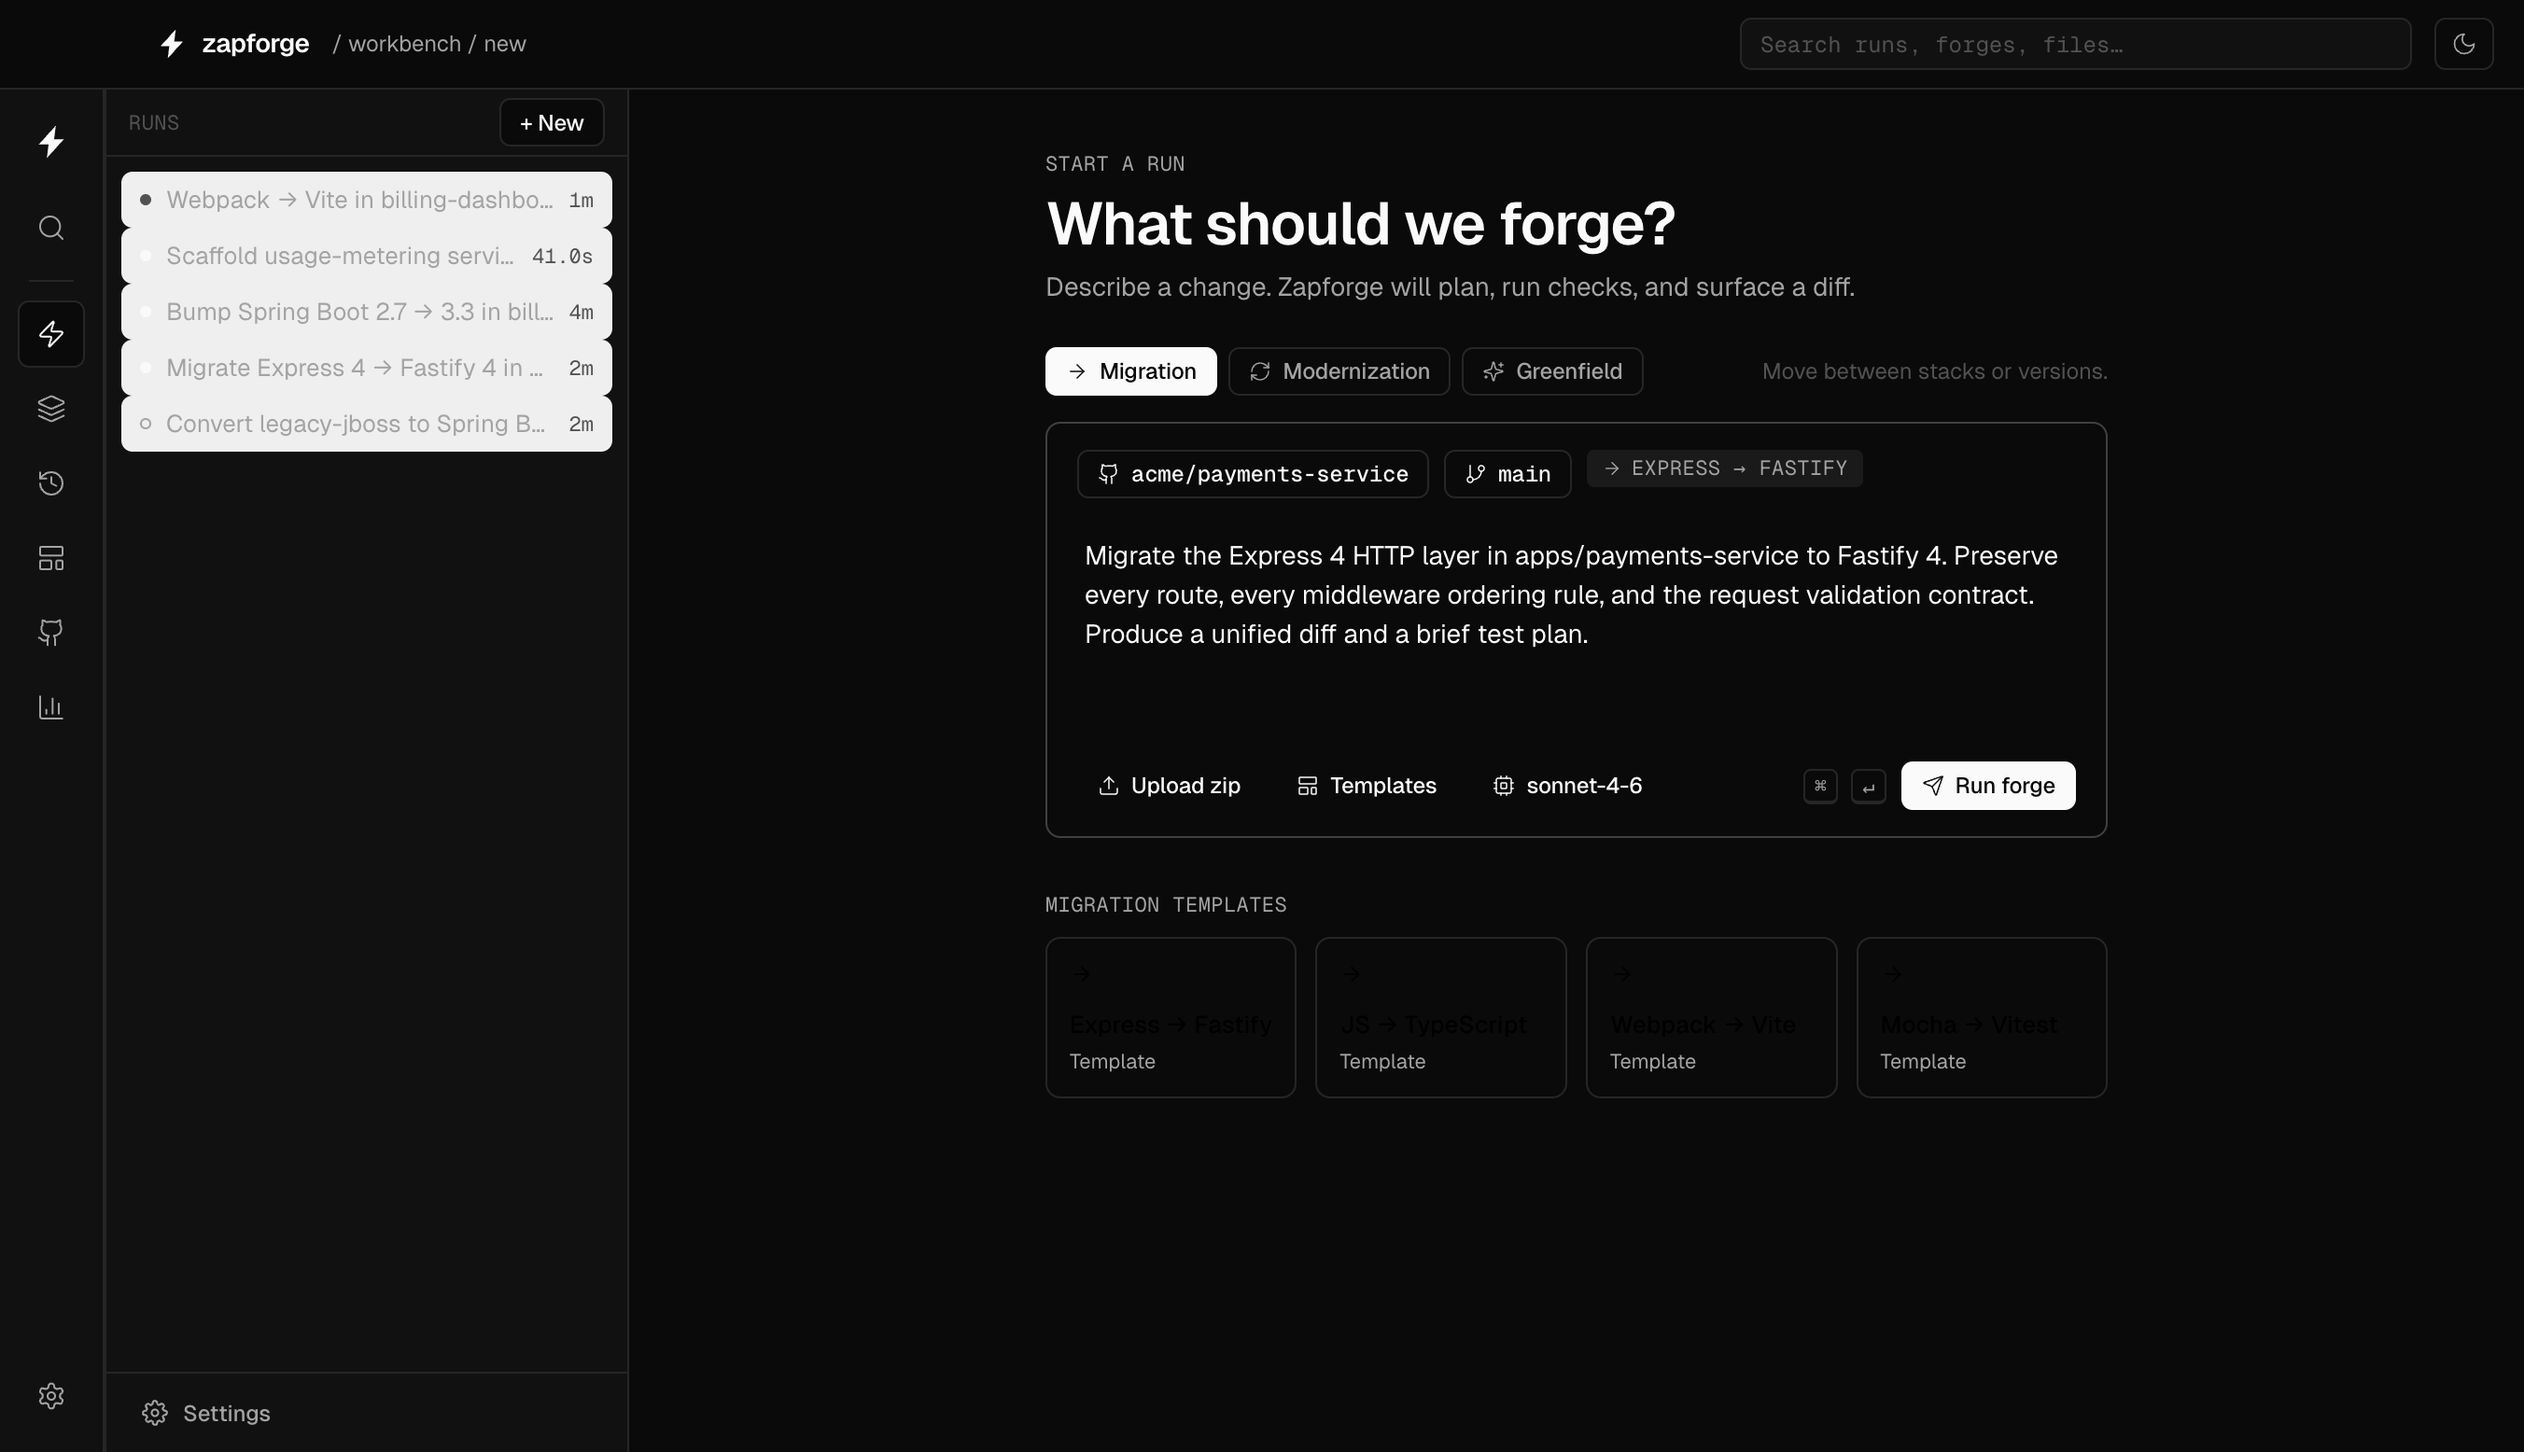
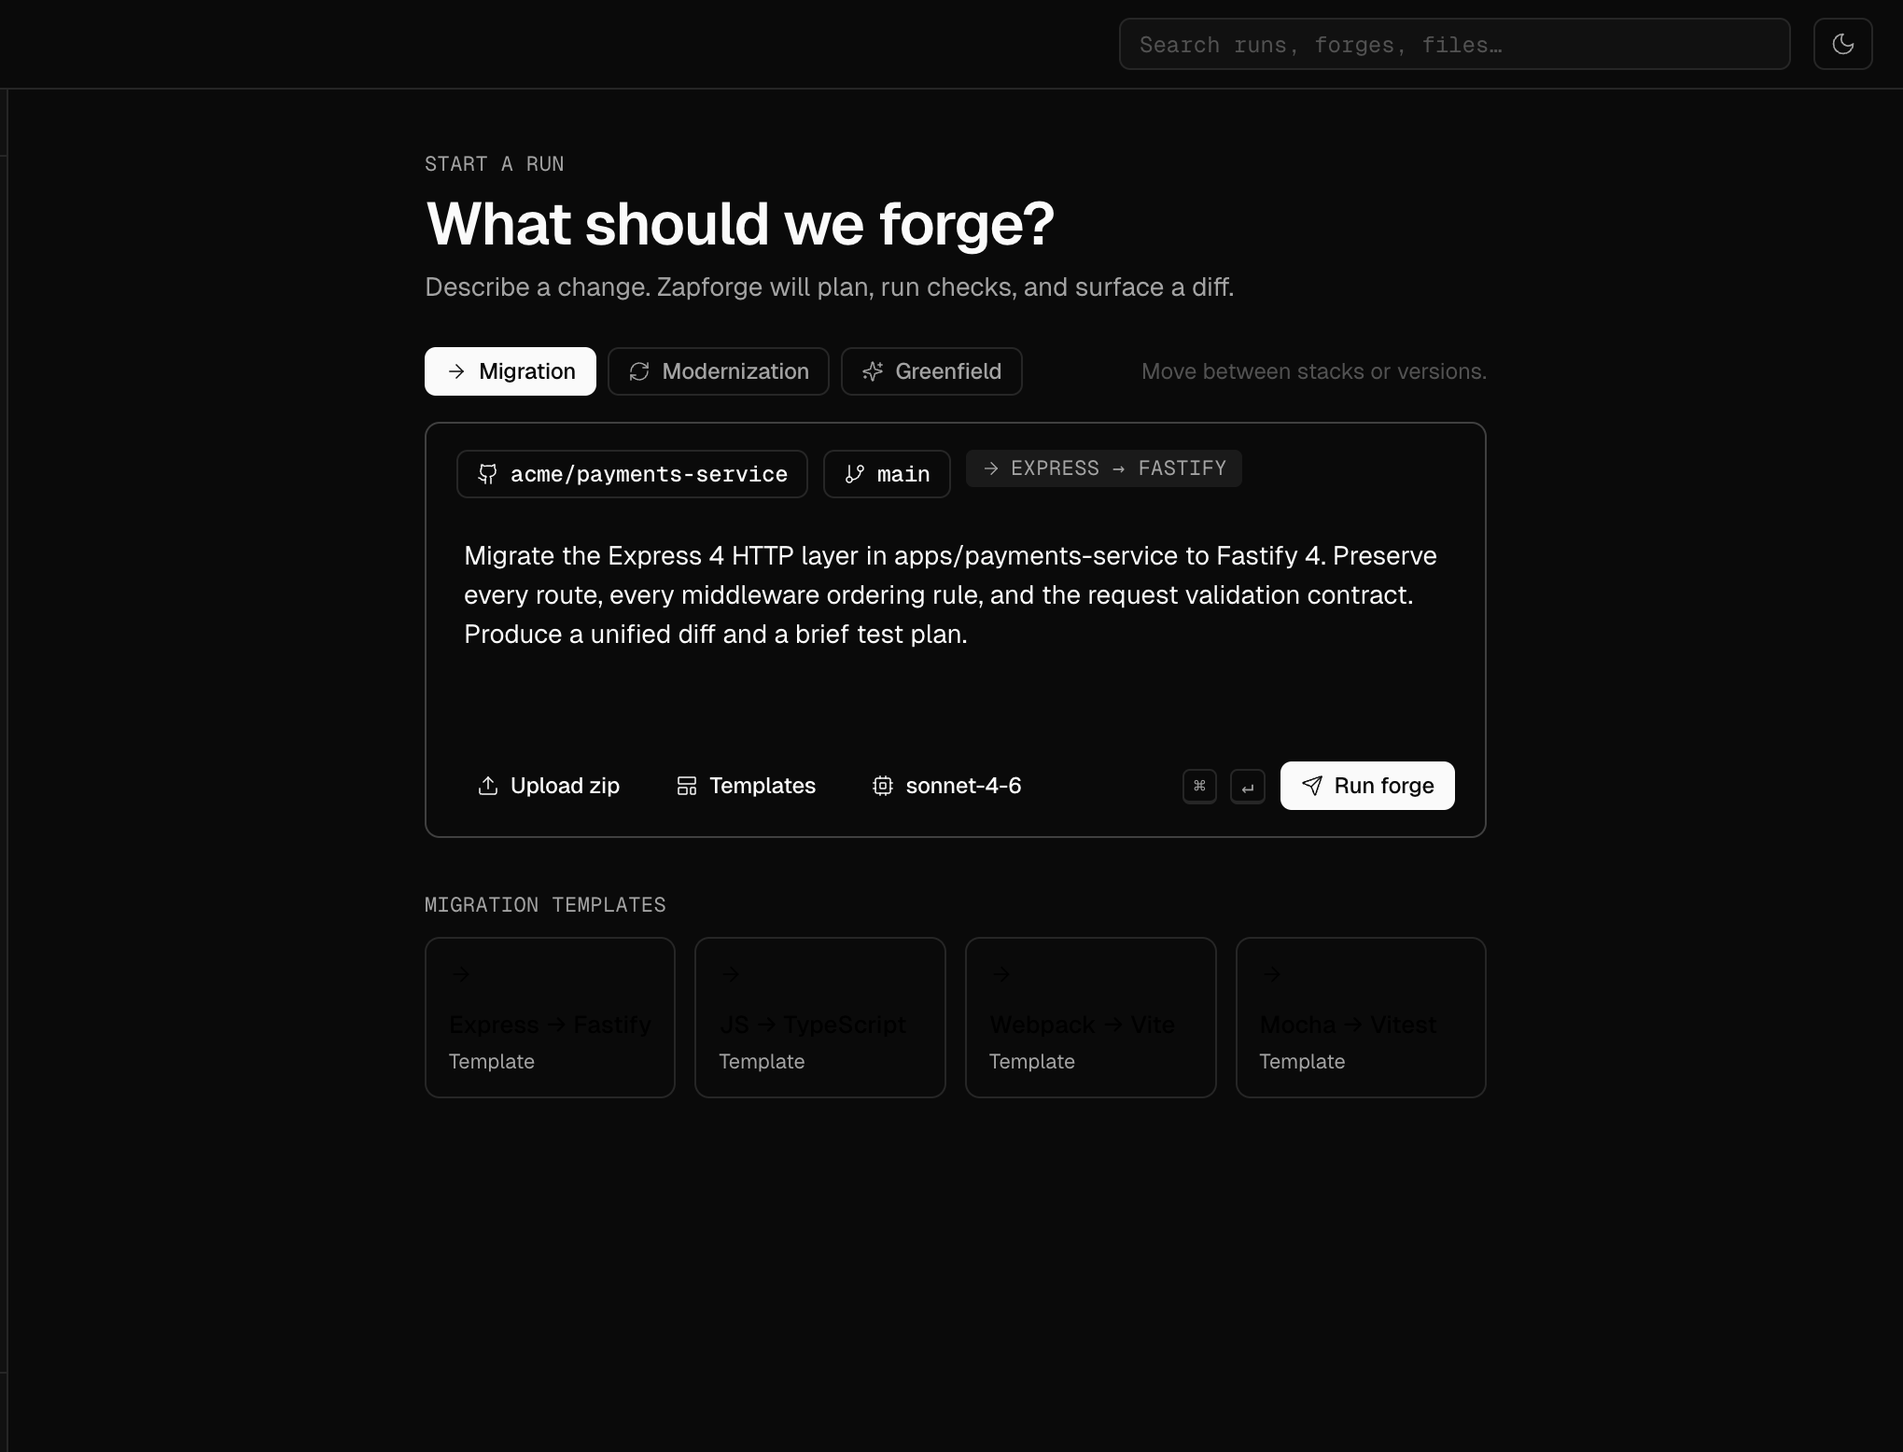
Add the workspace screen, and fix the light panels in the dark shots
Show the workbench (workspace) screen as the entry point of the product
walkthrough, and correct the dark-mode artefact in the screenshots that were
already on the page.

The committed dark captures in the product repo were taken mid theme
transition, so the left run-list sidebar rendered with light-mode styling —
white rows inside an otherwise dark window. The application is not at fault:
.zf-row resolves to --bg-subtle / --bg-muted, which are #111111 / #1a1a1a
under [data-theme="dark"]. Only the captures are wrong.

- Crop composer, plan, diff, summary and logs to the main pane, which removes
  the affected sidebar entirely and makes the remaining UI larger.
- Rebuild the workspace screen as WorkbenchMock rather than using its capture.
  Cropping could not save that one: its recent-run titles were also caught
  mid-transition and are nearly invisible. The component uses the application's
  own dark tokens and the product's seed data.
- Renumber the product walkthrough to six blocks and move the mode
  introduction onto the workspace card.

The upstream capture bug is worth fixing separately: screenshots.spec.ts
selects the theme toggle with button.zf-themetoggle, which now matches three
buttons and clicks the wrong one, and it waits 80ms without disabling CSS
transitions.

diff --git a/src/components/WorkbenchMock.tsx b/src/components/WorkbenchMock.tsx
@@ -1,0 +1,175 @@
+/**
+ * The ZapForge workspace screen, rebuilt in markup rather than screenshotted.
+ *
+ * The captured dark-mode screenshot of this screen was taken mid theme
+ * transition, so its run rows and titles rendered with light-mode styling.
+ * Recreating it here renders the screen in true dark mode using the
+ * application's own dark tokens (src/renderer/src/styles/tokens.css):
+ *
+ *   bg #0a0a0a · bg-subtle #111111 · bg-muted #1a1a1a · border #262626
+ *   fg #fafafa · fg-muted #a3a3a3 · fg-faint #8e8e8e
+ *
+ * Run data mirrors the product's seed set. Static by design — the hero already
+ * carries the animated run.
+ */
+
+type Run = {
+  title: string;
+  id: string;
+  repo: string;
+  mode: string;
+  ago: string;
+  state: "queued" | "done" | "failed";
+};
+
+const RUNS: Run[] = [
+  {
+    title: "Webpack → Vite in billing-dashboard",
+    id: "run_queued",
+    repo: "acme/billing-dashboard",
+    mode: "MIGRATION · WEBPACK → VITE",
+    ago: "1m ago",
+    state: "queued",
+  },
+  {
+    title: "Scaffold usage-metering service",
+    id: "run_gre01",
+    repo: "(new repo)",
+    mode: "GREENFIELD · NEW SERVICE",
+    ago: "4m ago",
+    state: "done",
+  },
+  {
+    title: "Bump Spring Boot 2.7 → 3.3 in billing-web",
+    id: "run_mod01",
+    repo: "acme/billing-web",
+    mode: "MODERNIZATION · SPRING BOOT 2 → 3",
+    ago: "19m ago",
+    state: "done",
+  },
+  {
+    title: "Migrate Express 4 → Fastify 4 in payments-service",
+    id: "run_mig01",
+    repo: "acme/payments-service",
+    mode: "MIGRATION · EXPRESS → FASTIFY",
+    ago: "47m ago",
+    state: "done",
+  },
+  {
+    title: "Convert legacy-jboss to Spring Boot 3",
+    id: "run_failed",
+    repo: "acme/legacy-jboss",
+    mode: "MODERNIZATION · JBOSS → SPRING",
+    ago: "5h ago",
+    state: "failed",
+  },
+];
+
+const MODES = [
+  { name: "Migration", hint: "Move between stacks or versions.", selected: true },
+  { name: "Modernization", hint: "Refactor without behavior change.", selected: false },
+  { name: "Greenfield", hint: "Generate a new project.", selected: false },
+];
+
+export default function WorkbenchMock() {
+  return (
+    <div className="bg-[#0a0a0a] text-[#fafafa]">
+      {/* Top bar */}
+      <div className="flex items-center gap-3 border-b border-[#262626] px-5 py-3">
+        <p className="font-mono text-[11px] text-[#8e8e8e]">
+          zapforge <span className="text-[#5c5c5c]">/ workbench</span>
+        </p>
+        <div className="ml-auto hidden items-center gap-2 sm:flex">
+          <span className="rounded-md border border-[#262626] bg-[#111111] px-3 py-1.5 font-mono text-[11px] text-[#5c5c5c]">
+            Search runs, forges, files…
+          </span>
+        </div>
+      </div>
+
+      <div className="px-5 py-6 sm:px-7 sm:py-8">
+        <p className="font-mono text-[10px] tracking-[0.18em] text-[#8e8e8e] uppercase">
+          Workbench
+        </p>
+        <p className="mt-2 text-2xl font-semibold tracking-tight sm:text-3xl">
+          Good morning.
+        </p>
+        <p className="mt-1.5 text-sm text-[#a3a3a3]">
+          5 runs · 0 currently running.
+        </p>
+
+        {/* Mode cards */}
+        <div className="mt-6 grid grid-cols-1 gap-3 sm:grid-cols-3">
+          {MODES.map((m) => (
+            <div
+              key={m.name}
+              className={`rounded-lg border px-4 py-3.5 ${
+                m.selected
+                  ? "border-[#fafafa] bg-[#fafafa] text-[#0a0a0a]"
+                  : "border-[#262626] bg-[#111111]"
+              }`}
+            >
+              <p className="text-sm font-semibold">{m.name}</p>
+              <p
+                className={`mt-1 text-xs ${
+                  m.selected ? "text-[#525252]" : "text-[#8e8e8e]"
+                }`}
+              >
+                {m.hint}
+              </p>
+            </div>
+          ))}
+        </div>
+
+        {/* Recent runs */}
+        <p className="mt-8 font-mono text-[10px] tracking-[0.18em] text-[#8e8e8e] uppercase">
+          Recent runs
+        </p>
+        <ul className="mt-3 divide-y divide-[#1a1a1a] overflow-hidden rounded-lg border border-[#262626] bg-[#111111]">
+          {RUNS.map((r) => (
+            <li
+              key={r.id}
+              className="grid grid-cols-1 items-center gap-x-4 gap-y-1.5 px-4 py-3.5 lg:grid-cols-[1.6fr_1fr_1.1fr_auto_auto]"
+            >
+              <div className="flex min-w-0 items-start gap-2.5">
+                <span
+                  aria-hidden="true"
+                  className={`mt-1.5 h-1.5 w-1.5 shrink-0 rounded-full ${
+                    r.state === "failed"
+                      ? "bg-transparent ring-1 ring-[#8e8e8e]"
+                      : r.state === "queued"
+                        ? "bg-[#5c5c5c]"
+                        : "bg-[#fafafa]"
+                  }`}
+                />
+                <div className="min-w-0">
+                  <p className="truncate text-[13px] text-[#fafafa]">
+                    {r.title}
+                  </p>
+                  <p className="mt-0.5 font-mono text-[11px] text-[#8e8e8e]">
+                    {r.id}
+                  </p>
+                </div>
+              </div>
+
+              <p className="truncate font-mono text-[11px] text-[#a3a3a3]">
+                {r.repo}
+              </p>
+
+              <p className="font-mono text-[10px] leading-relaxed text-[#8e8e8e]">
+                <span className="rounded bg-[#1a1a1a] px-1.5 py-0.5">
+                  {r.mode}
+                </span>
+              </p>
+
+              <p className="font-mono text-[11px] text-[#8e8e8e]">{r.ago}</p>
+
+              <p className="hidden text-[13px] font-medium text-[#fafafa] lg:block">
+                Open <span aria-hidden="true">→</span>
+              </p>
+            </li>
+          ))}
+        </ul>
+      </div>
+    </div>
+  );
+}

diff --git a/src/content/site.ts b/src/content/site.ts
@@ -95,10 +95,23 @@ export const product = {
   features: [
     {
       n: "01",
+      title: "Every migration in one workspace",
+      body: "The workbench is the home screen: every run across every connected repository, what is queued, what is running and what failed. Start a new one from three modes, or reopen a past run and branch it.",
+      bullets: [
+        "Migration, modernization and greenfield modes",
+        "Recent runs across every connected repository",
+        "Status, mode and elapsed time at a glance",
+      ],
+      // Rendered by WorkbenchMock rather than screenshotted — see that component.
+      shot: "mock:workbench",
+      alt: "The ZapForge workbench home screen listing five recent runs across four repositories, with cards for the migration, modernization and greenfield modes",
+    },
+    {
+      n: "02",
       title: "Describe the change in plain language",
       body: "Pick a repository and a branch, choose migration, modernization or greenfield, and say what you want. Or start from a template that already encodes the migration. Model and engine are selectable per run — Claude Agent SDK or the API directly.",
       bullets: [
-        "Three modes: migration, modernization, greenfield",
+        "Plain-language prompt, or start from a template",
         "Repo and branch picker, or upload a zip",
         "Per-run model and engine selection",
       ],
@@ -106,7 +119,7 @@ export const product = {
       alt: "ZapForge composer with a migration prompt describing an Express 4 to Fastify 4 move on acme/payments-service",
     },
     {
-      n: "02",
+      n: "03",
       title: "It plans before it touches anything",
       body: "ZapForge indexes the repository, detects what is actually in use, and proposes a step-by-step plan with file counts and expected durations. Not a single line is written until a human approves that plan.",
       bullets: [
@@ -118,7 +131,7 @@ export const product = {
       alt: "ZapForge run plan showing six completed stages from repository scan through test suite, with per-stage durations",
     },
     {
-      n: "03",
+      n: "04",
       title: "Every change lands as a reviewable diff",
       body: "Execution happens in a throwaway git worktree, so your checkout and your branch are never touched. What comes back is a diff — split or unified, per file, with line counts — reviewed exactly the way your team already reviews code.",
       bullets: [
@@ -130,7 +143,7 @@ export const product = {
       alt: "ZapForge split diff view comparing before and after for server.ts, showing plus eighteen and minus sixteen lines",
     },
     {
-      n: "04",
+      n: "05",
       title: "A pull request your reviewer can actually read",
       body: "Highlights, a check matrix with durations, and the commit list — generated from what the run actually did rather than written by hand afterwards. This is the artefact that goes to change control.",
       bullets: [
@@ -142,7 +155,7 @@ export const product = {
       alt: "ZapForge pull request preview with highlights, a passing check matrix and the commit list for the Fastify migration",
     },
     {
-      n: "05",
+      n: "06",
       title: "Full transcript, and what it cost",
       body: "Every command the run issued, in order, kept with the run. Alongside it a token and USD meter, so spend is visible while the work is happening rather than as a surprise on an invoice at the end of the month.",
       bullets: [

diff --git a/src/components/Product.tsx b/src/components/Product.tsx
@@ -1,5 +1,6 @@
 import Image from "next/image";
 import { Container, SectionHeading } from "./Section";
+import WorkbenchMock from "./WorkbenchMock";
 import { product } from "@/content/site";
 
 export default function Product() {
@@ -72,15 +73,21 @@ export default function Product() {
                   <span className="h-2.5 w-2.5 rounded-full bg-white/20" />
                   <span className="h-2.5 w-2.5 rounded-full bg-white/20" />
                 </div>
-                <Image
-                  src={f.shot}
-                  alt={f.alt}
-                  width={2704}
-                  height={1556}
-                  priority={i === 0}
-                  sizes="(min-width: 1280px) 76rem, 100vw"
-                  className="w-full"
-                />
+                {f.shot.startsWith("mock:") ? (
+                  <div role="img" aria-label={f.alt}>
+                    <WorkbenchMock />
+                  </div>
+                ) : (
+                  <Image
+                    src={f.shot}
+                    alt={f.alt}
+                    width={2039}
+                    height={1556}
+                    priority={i <= 1}
+                    sizes="(min-width: 1280px) 76rem, 100vw"
+                    className="w-full"
+                  />
+                )}
               </figure>
             </article>
           ))}

diff --git a/README.md b/README.md
@@ -69,21 +69,41 @@ the old host.
 `public/shots/` holds the application screenshots used by the `product` section.
 They are copied from `screenshots/dark/` in the product repo:
 
-| File           | Source                          |
-| -------------- | ------------------------------- |
-| `composer.png` | `04-composer-migration.png`     |
-| `plan.png`     | `11-run-plan.png`               |
-| `diff.png`     | `14-run-diff-split.png`         |
-| `summary.png`  | `16-run-pr-summary.png`         |
-| `logs.png`     | `17-run-logs.png`               |
+| File           | Source                      |
+| -------------- | --------------------------- |
+| `composer.png` | `04-composer-migration.png` |
+| `plan.png`     | `11-run-plan.png`           |
+| `diff.png`     | `14-run-diff-split.png`     |
+| `summary.png`  | `16-run-pr-summary.png`     |
+| `logs.png`     | `17-run-logs.png`           |
 
 They show **demonstration data** (`acme/payments-service`), which the section
-masthead states explicitly. Re-copy them when the product UI changes.
+masthead states explicitly.
 
-The hero visual is not a screenshot — `src/components/RunMock.tsx` is an
-animated recreation of the same run, so it stays crisp at any resolution. Its
-stage names and durations mirror the product's own seed data. It honours
-`prefers-reduced-motion` by rendering the finished state statically.
+**Each is cropped to the main pane (x≥665 of the 2704px original).** The
+committed dark captures were taken mid theme transition, so the left run-list
+sidebar rendered with light-mode styling — white rows inside an otherwise dark
+window. The app itself is correct (`.zf-row` resolves to `--bg-subtle` /
+`--bg-muted`, which are `#111111` / `#1a1a1a` under `[data-theme="dark"]`); only
+the captures are wrong. Cropping removes the affected region and makes the
+remaining UI larger. Re-crop from the same offset if you re-copy them, or drop
+the crop once the product repo has clean dark captures.
+
+The root cause is worth fixing upstream: `tests/e2e/screenshots.spec.ts` selects
+the theme toggle with `button.zf-themetoggle`, which now matches three buttons
+(Anvil, theme, Help) and so clicks the wrong one; it also waits only 80ms and
+never disables CSS transitions before capturing.
+
+## Rendered mocks
+
+Two product surfaces are built in markup rather than screenshotted, so they are
+crisp at any resolution and always render in true dark mode:
+
+- `src/components/RunMock.tsx` — the animated hero run. Replays the approval
+  gate, and honours `prefers-reduced-motion` by pinning to the finished state.
+- `src/components/WorkbenchMock.tsx` — the workspace screen. Uses the
+  application's own dark tokens; its dark capture was unusable for the reason
+  above. Referenced from `site.ts` via the `mock:workbench` sentinel.
 
 ## Content note
 
